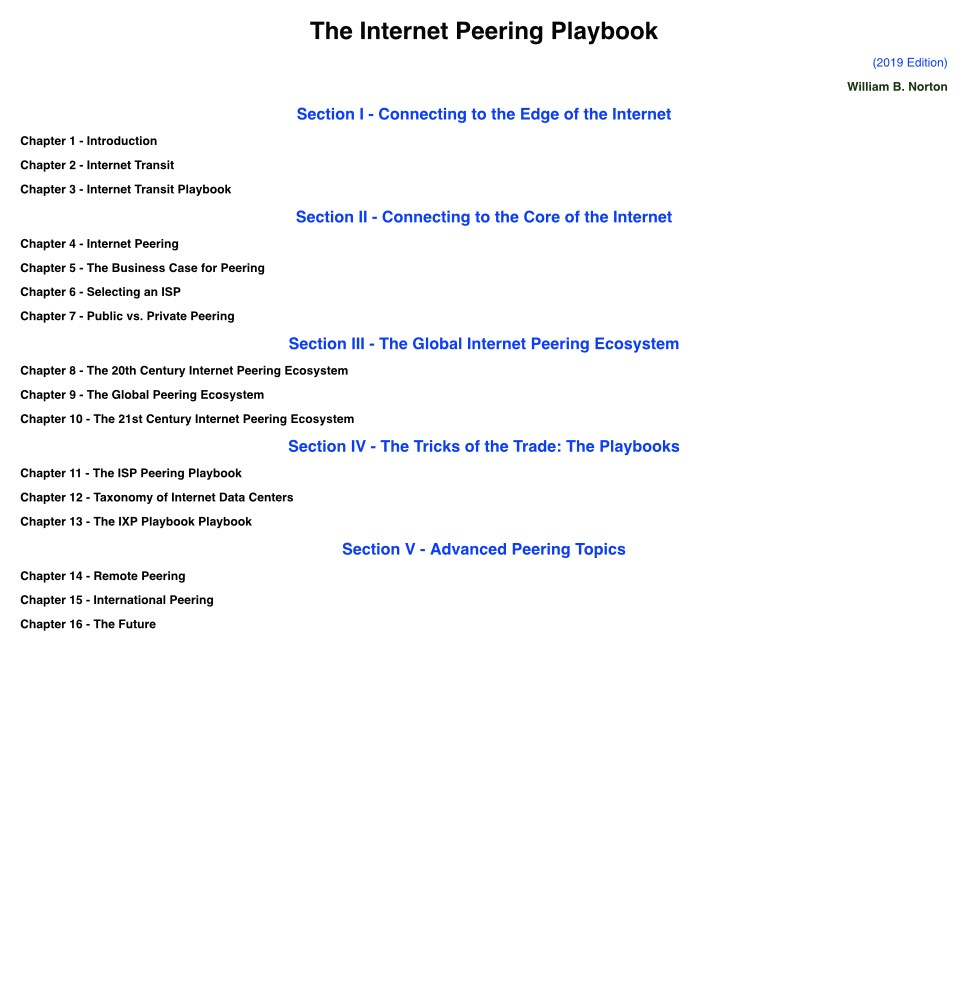
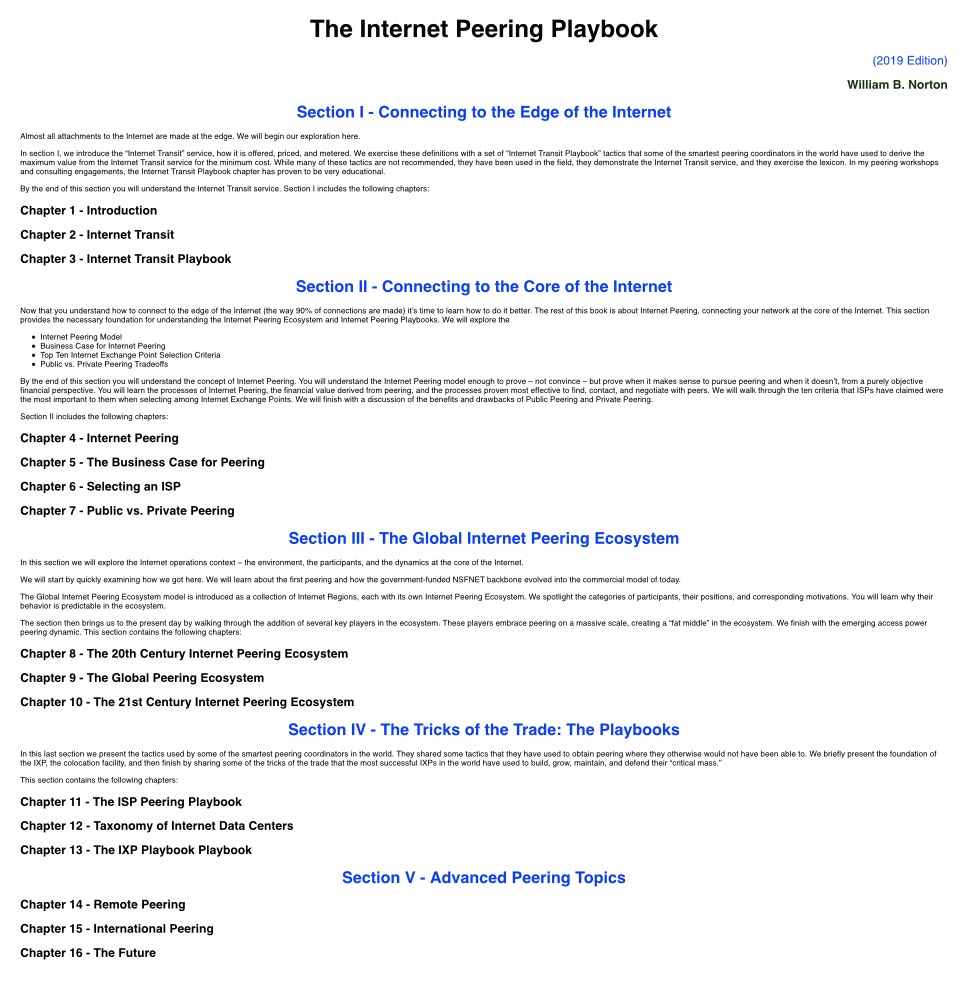
getting set up

diff --git a/index.hyperesources/index_hype_generated_script.js b/index.hyperesources/index_hype_generated_script.js
@@ -3,5 +3,5 @@
 (function(){(function k(){function l(a,b,d){var c=!1;null==window[a]&&(null==window[b]?(window[b]=[],window[b].push(k),a=document.getElementsByTagName("head")[0],b=document.createElement("script"),c=h,false==!0&&(c=""),b.type="text/javascript",b.src=c+"/"+d,a.appendChild(b)):window[b].push(k),c=!0);return c}var h="index.hyperesources",c="index",e="index_hype_container";if(false==!1)try{for(var f=document.getElementsByTagName("script"),
 a=0;a<f.length;a++){var b=f[a].src,d=null!=b?b.indexOf("/index_hype_generated_script.js"):-1;if(-1!=d){h=b.substr(0,d);break}}}catch(n){}if(false==!1&&(a=navigator.userAgent.match(/MSIE (\d+\.\d+)/),a=parseFloat(a&&a[1])||null,a=l("HYPE_596","HYPE_dtl_596",!0==(null!=a&&10>a||false==!0)?"HYPE-596.full.min.js":"HYPE-596.thin.min.js"),false==!0&&(a=a||l("HYPE_w_596","HYPE_wdtl_596","HYPE-596.waypoints.min.js")),a))return;f=window.HYPE.documents;
 if(null!=f[c]){b=1;a=c;do c=""+a+"-"+b++;while(null!=f[c]);d=document.getElementsByTagName("div");b=!1;for(a=0;a<d.length;a++)if(d[a].id==e&&null==d[a].getAttribute("HYP_dn")){var b=1,g=e;do e=""+g+"-"+b++;while(null!=document.getElementById(e));d[a].id=e;b=!0;break}if(!1==b)return}b=[];b=[];d={};g={};for(a=0;a<b.length;a++)try{g[b[a].identifier]=b[a].name,d[b[a].name]=eval("(function(){return "+b[a].source+"})();")}catch(m){window.console&&window.console.log(m),d[b[a].name]=
-function(){}}a=new HYPE_596(c,e,{"0":{n:"jquery-3.2.1.min.js"},"-1":{n:"PIE.htc"},"-2":{n:"blank.gif"}},h,[],d,[{n:"Table of Contents",o:"113",X:[0]}],[{o:"115",p:"600px",cA:false,a:100,Z:2000,Y:1920,c:"#FFFFFF",L:[],bY:1,d:1920,U:{},T:{kTimelineDefaultIdentifier:{i:"kTimelineDefaultIdentifier",n:"Main Timeline",z:0,b:[],a:[],f:30}},bZ:180,O:["126"],n:"Desktop","_":0,v:{"126":{G:"#000000",aU:8,c:1840,bS:111,aV:8,d:2773,r:"inline",s:"Helvetica,Arial,Sans-Serif",t:16,Z:"break-word",w:"<h1 style=\"text-align: center; \"><font color=\"#050505\" size=\"7\">The Internet Peering Playbook</font></h1><div style=\"text-align: right;\"><font color=\"#0433ff\" size=\"5\">(2019 Edition)</font></div>\n<h2 style=\"text-align: right; \"><font color=\"#053505\">William B. Norton</font></h2>\n<h1 style=\"text-align: center; \"><font color=\"#0433ff\">Section I - Connecting to the Edge of the Internet</font></h1>\n<h2>Chapter 1 - Introduction</h2>\n<h2>Chapter 2 - Internet Transit</h2>\n<h2>Chapter 3 - Internet Transit Playbook</h2>\n<h1 style=\"text-align: center;\"><font color=\"#0433ff\">Section II - Connecting to the Core of the Internet</font></h1>\n<h2>Chapter 4 - Internet Peering</h2>\n<h2>Chapter 5 - The Business Case for Peering</h2>\n<h2>Chapter 6 - Selecting an ISP</h2>\n<h2>Chapter 7 - Public vs. Private Peering</h2>\n<h1 style=\"text-align: center;\"><font color=\"#0433ff\">Section III - The Global Internet Peering Ecosystem</font></h1>\n<h2>Chapter 8 - The 20th Century Internet Peering Ecosystem</h2>\n<h2>Chapter 9 - The Global Peering Ecosystem</h2>\n<h2>Chapter 10 - The 21st Century Internet Peering Ecosystem</h2>\n<h1 style=\"text-align: center;\"><font color=\"#0433ff\">Section IV - The Tricks of the Trade: The Playbooks</font></h1>\n<h2>Chapter 11 - The ISP Peering Playbook</h2>\n<h2>Chapter 12 - Taxonomy of Internet Data Centers</h2>\n<h2>Chapter 13 - The IXP Playbook Playbook</h2>\n<h1 style=\"text-align: center;\"><font color=\"#0433ff\">Section V - Advanced Peering Topics</font></h1>\n<h2>Chapter 14 - Remote Peering</h2>\n<h2>Chapter 15 - International Peering</h2>\n<h2>Chapter 16 - The Future</h2>",j:"absolute",x:"auto",k:"div",y:"preserve",z:1,aS:8,aT:8,a:32,b:4}}}],{},g,{},null,false,true,-1,true,true,true,true);f[c]=a.API;document.getElementById(e).setAttribute("HYP_dn",
+function(){}}a=new HYPE_596(c,e,{"0":{n:"jquery-3.2.1.min.js"},"-1":{n:"PIE.htc"},"-2":{n:"blank.gif"}},h,[],d,[{n:"Table of Contents",o:"113",X:[0]}],[{o:"115",p:"600px",cA:false,a:100,Z:2000,Y:1920,c:"#FFFFFF",L:[],bY:1,d:1920,U:{},T:{kTimelineDefaultIdentifier:{i:"kTimelineDefaultIdentifier",n:"Main Timeline",z:0,b:[],a:[],f:30}},bZ:180,O:["126"],n:"Desktop","_":0,v:{"126":{G:"#000000",aU:8,c:1840,bS:111,aV:8,d:3089,r:"inline",s:"Helvetica,Arial,Sans-Serif",t:16,Z:"break-word",w:"<h1 style=\"text-align: center; \"><font color=\"#050505\" size=\"7\">The Internet Peering Playbook</font></h1><div style=\"text-align: right;\"><font color=\"#0433ff\" size=\"5\">(2019 Edition)</font></div>\n<h2 style=\"text-align: right; \"><font color=\"#053505\">William B. Norton</font></h2>\n<h1 style=\"text-align: center; \"><font color=\"#0433ff\">Section I - Connecting to the Edge of the Internet</font></h1>\n<p>Almost all attachments to the Internet are made at the edge. We will begin our exploration here.</p><p>\nIn section I, we introduce the \u201cInternet Transit\u201d service, how it is offered, priced, and metered. We exercise these definitions with a set of \u201cInternet Transit Playbook\u201d tactics that some of the smartest peering coordinators in the world have used to derive the maximum value from the Internet Transit service for the minimum cost. While many of these tactics are not recommended, they have been used in the field, they demonstrate the Internet Transit service, and they exercise the lexicon. In my peering workshops and consulting engagements, the Internet Transit Playbook chapter has proven to be very educational.</p><p>\nBy the end of this section you will understand the Internet Transit service.\nSection I includes the following chapters:</p>\n<h2>Chapter 1 - Introduction</h2>\n<h2>Chapter 2 - Internet Transit</h2>\n<h2>Chapter 3 - Internet Transit Playbook</h2>\n<h1 style=\"text-align: center;\"><font color=\"#0433ff\">Section II - Connecting to the Core of the Internet</font></h1>\n<p>Now that you understand how to connect to the edge of the Internet (the way 90% of connections are made) it\u2019s time to learn how to do it better. The rest of this book is about Internet Peering, connecting your network at the core of the Internet. This section provides the necessary foundation for understanding the Internet Peering Ecosystem and Internet Peering Playbooks. \nWe will explore the</p>\n<p>\n</p><ul>\n<li>Internet Peering Model</li>\n<li>Business Case for Internet Peering</li>\n<li>Top Ten Internet Exchange Point Selection Criteria</li>\n<li>Public vs. Private Peering Tradeoffs</li>\n</ul>\n<p></p><p>By the end of this section you will understand the concept of Internet Peering. You will understand the Internet Peering model enough to prove \u2013 not convince \u2013 but prove when it makes sense to pursue peering and when it doesn\u2019t, from a purely objective financial perspective. You will learn the processes of Internet Peering, the financial value derived from peering, and the processes proven most effective to find, contact, and negotiate with peers. We will walk through the ten criteria that ISPs have claimed were the most important to them when selecting among Internet Exchange Points. We will finish with a discussion of the benefits and drawbacks of Public Peering and Private Peering.\n</p>\n<p>Section II includes the following chapters:\n</p>\n<h2>Chapter 4 - Internet Peering</h2>\n<h2>Chapter 5 - The Business Case for Peering</h2>\n<h2>Chapter 6 - Selecting an ISP</h2>\n<h2>Chapter 7 - Public vs. Private Peering</h2>\n<h1 style=\"text-align: center;\"><font color=\"#0433ff\">Section III - The Global Internet Peering Ecosystem</font></h1>\n<p>\nIn this section we will explore the Internet operations context \u2013 the environment, the participants, and the dynamics at the core of the Internet.</p>\n<p>We will start by quickly examining how we got here. We will learn about the first peering and how the government-funded NSFNET backbone evolved into the commercial model of today. </p>\n<p>The Global Internet Peering Ecosystem model is introduced as a collection of Internet Regions, each with its own Internet Peering Ecosystem. We spotlight the categories of participants, their positions, and corresponding motivations. You will learn why their behavior is predictable in the ecosystem.</p>\n<p>\nThe section then brings us to the present day by walking through the addition of several key players in the ecosystem. These players embrace peering on a massive scale, creating a \u201cfat middle\u201d in the ecosystem. We finish with the emerging access power peering dynamic. This section contains the following chapters:\n</p>\n\n<h2>Chapter 8 - The 20th Century Internet Peering Ecosystem</h2>\n<h2>Chapter 9 - The Global Peering Ecosystem</h2>\n<h2>Chapter 10 - The 21st Century Internet Peering Ecosystem</h2>\n<h1 style=\"text-align: center;\"><font color=\"#0433ff\">Section IV - The Tricks of the Trade: The Playbooks</font></h1>\n<p>\nIn this last section we present the tactics used by some of the smartest peering coordinators in the world. They shared some tactics that they have used to obtain peering where they otherwise would not have been able to. We briefly present the foundation of the IXP, the colocation facility, and then finish by sharing some of the tricks of the trade that the most successful IXPs in the world have used to build, grow, maintain, and defend their \u201ccritical mass.\u201d\n</p><p>This section contains the following chapters:\n</p>\n<h2>Chapter 11 - The ISP Peering Playbook</h2>\n<h2>Chapter 12 - Taxonomy of Internet Data Centers</h2>\n<h2>Chapter 13 - The IXP Playbook Playbook</h2>\n<h1 style=\"text-align: center;\"><font color=\"#0433ff\">Section V - Advanced Peering Topics</font></h1>\n<h2>Chapter 14 - Remote Peering</h2>\n<h2>Chapter 15 - International Peering</h2>\n<h2>Chapter 16 - The Future</h2>",j:"absolute",x:"auto",k:"div",y:"preserve",z:1,aS:8,aT:8,a:32,b:0}}}],{},g,{},null,false,true,-1,true,true,true,true);f[c]=a.API;document.getElementById(e).setAttribute("HYP_dn",
 c);a.z_o(this.body)})();})();

diff --git a/index.html b/index.html
@@ -41,7 +41,7 @@ $(document).ready(function() {
 	<!-- copy these lines to your document: -->
 
 	<div id="index_hype_container" style="margin:auto;position:relative;width:100%;height:2000px;overflow:hidden;">
-		<script type="text/javascript" charset="utf-8" src="index.hyperesources/index_hype_generated_script.js?72348"></script>
+		<script type="text/javascript" charset="utf-8" src="index.hyperesources/index_hype_generated_script.js?85159"></script>
 	</div>
 
 	<!-- end copy -->
@@ -52,17 +52,29 @@ $(document).ready(function() {
 
 	<div style="display:none" aria-hidden=true>
 
-		<div>The Internet Peering Playbook(2019 Edition)William B. NortonSection I - Connecting to the Edge of the InternetChapter 1 - Introduction
+		<div>The Internet Peering Playbook(2019 Edition)William B. NortonSection I - Connecting to the Edge of the InternetAlmost all attachments to the Internet are made at the edge. We will begin our exploration here.
+In section I, we introduce the “Internet Transit” service, how it is offered, priced, and metered. We exercise these definitions with a set of “Internet Transit Playbook” tactics that some of the smartest peering coordinators in the world have used to derive the maximum value from the Internet Transit service for the minimum cost. While many of these tactics are not recommended, they have been used in the field, they demonstrate the Internet Transit service, and they exercise the lexicon. In my peering workshops and consulting engagements, the Internet Transit Playbook chapter has proven to be very educational.
+By the end of this section you will understand the Internet Transit service. Section I includes the following chapters:
+Chapter 1 - Introduction
 Chapter 2 - Internet Transit
 Chapter 3 - Internet Transit Playbook
-Section II - Connecting to the Core of the InternetChapter 4 - Internet Peering
+Section II - Connecting to the Core of the InternetNow that you understand how to connect to the edge of the Internet (the way 90% of connections are made) it’s time to learn how to do it better. The rest of this book is about Internet Peering, connecting your network at the core of the Internet. This section provides the necessary foundation for understanding the Internet Peering Ecosystem and Internet Peering Playbooks. We will explore the
+Internet Peering ModelBusiness Case for Internet PeeringTop Ten Internet Exchange Point Selection CriteriaPublic vs. Private Peering TradeoffsBy the end of this section you will understand the concept of Internet Peering. You will understand the Internet Peering model enough to prove – not convince – but prove when it makes sense to pursue peering and when it doesn’t, from a purely objective financial perspective. You will learn the processes of Internet Peering, the financial value derived from peering, and the processes proven most effective to find, contact, and negotiate with peers. We will walk through the ten criteria that ISPs have claimed were the most important to them when selecting among Internet Exchange Points. We will finish with a discussion of the benefits and drawbacks of Public Peering and Private Peering.
+Section II includes the following chapters:
+Chapter 4 - Internet Peering
 Chapter 5 - The Business Case for Peering
 Chapter 6 - Selecting an ISP
 Chapter 7 - Public vs. Private Peering
-Section III - The Global Internet Peering EcosystemChapter 8 - The 20th Century Internet Peering Ecosystem
+Section III - The Global Internet Peering EcosystemIn this section we will explore the Internet operations context – the environment, the participants, and the dynamics at the core of the Internet.
+We will start by quickly examining how we got here. We will learn about the first peering and how the government-funded NSFNET backbone evolved into the commercial model of today.
+The Global Internet Peering Ecosystem model is introduced as a collection of Internet Regions, each with its own Internet Peering Ecosystem. We spotlight the categories of participants, their positions, and corresponding motivations. You will learn why their behavior is predictable in the ecosystem.
+The section then brings us to the present day by walking through the addition of several key players in the ecosystem. These players embrace peering on a massive scale, creating a “fat middle” in the ecosystem. We finish with the emerging access power peering dynamic. This section contains the following chapters:
+Chapter 8 - The 20th Century Internet Peering Ecosystem
 Chapter 9 - The Global Peering Ecosystem
 Chapter 10 - The 21st Century Internet Peering Ecosystem
-Section IV - The Tricks of the Trade: The PlaybooksChapter 11 - The ISP Peering Playbook
+Section IV - The Tricks of the Trade: The PlaybooksIn this last section we present the tactics used by some of the smartest peering coordinators in the world. They shared some tactics that they have used to obtain peering where they otherwise would not have been able to. We briefly present the foundation of the IXP, the colocation facility, and then finish by sharing some of the tricks of the trade that the most successful IXPs in the world have used to build, grow, maintain, and defend their “critical mass.”
+This section contains the following chapters:
+Chapter 11 - The ISP Peering Playbook
 Chapter 12 - Taxonomy of Internet Data Centers
 Chapter 13 - The IXP Playbook Playbook
 Section V - Advanced Peering TopicsChapter 14 - Remote Peering
